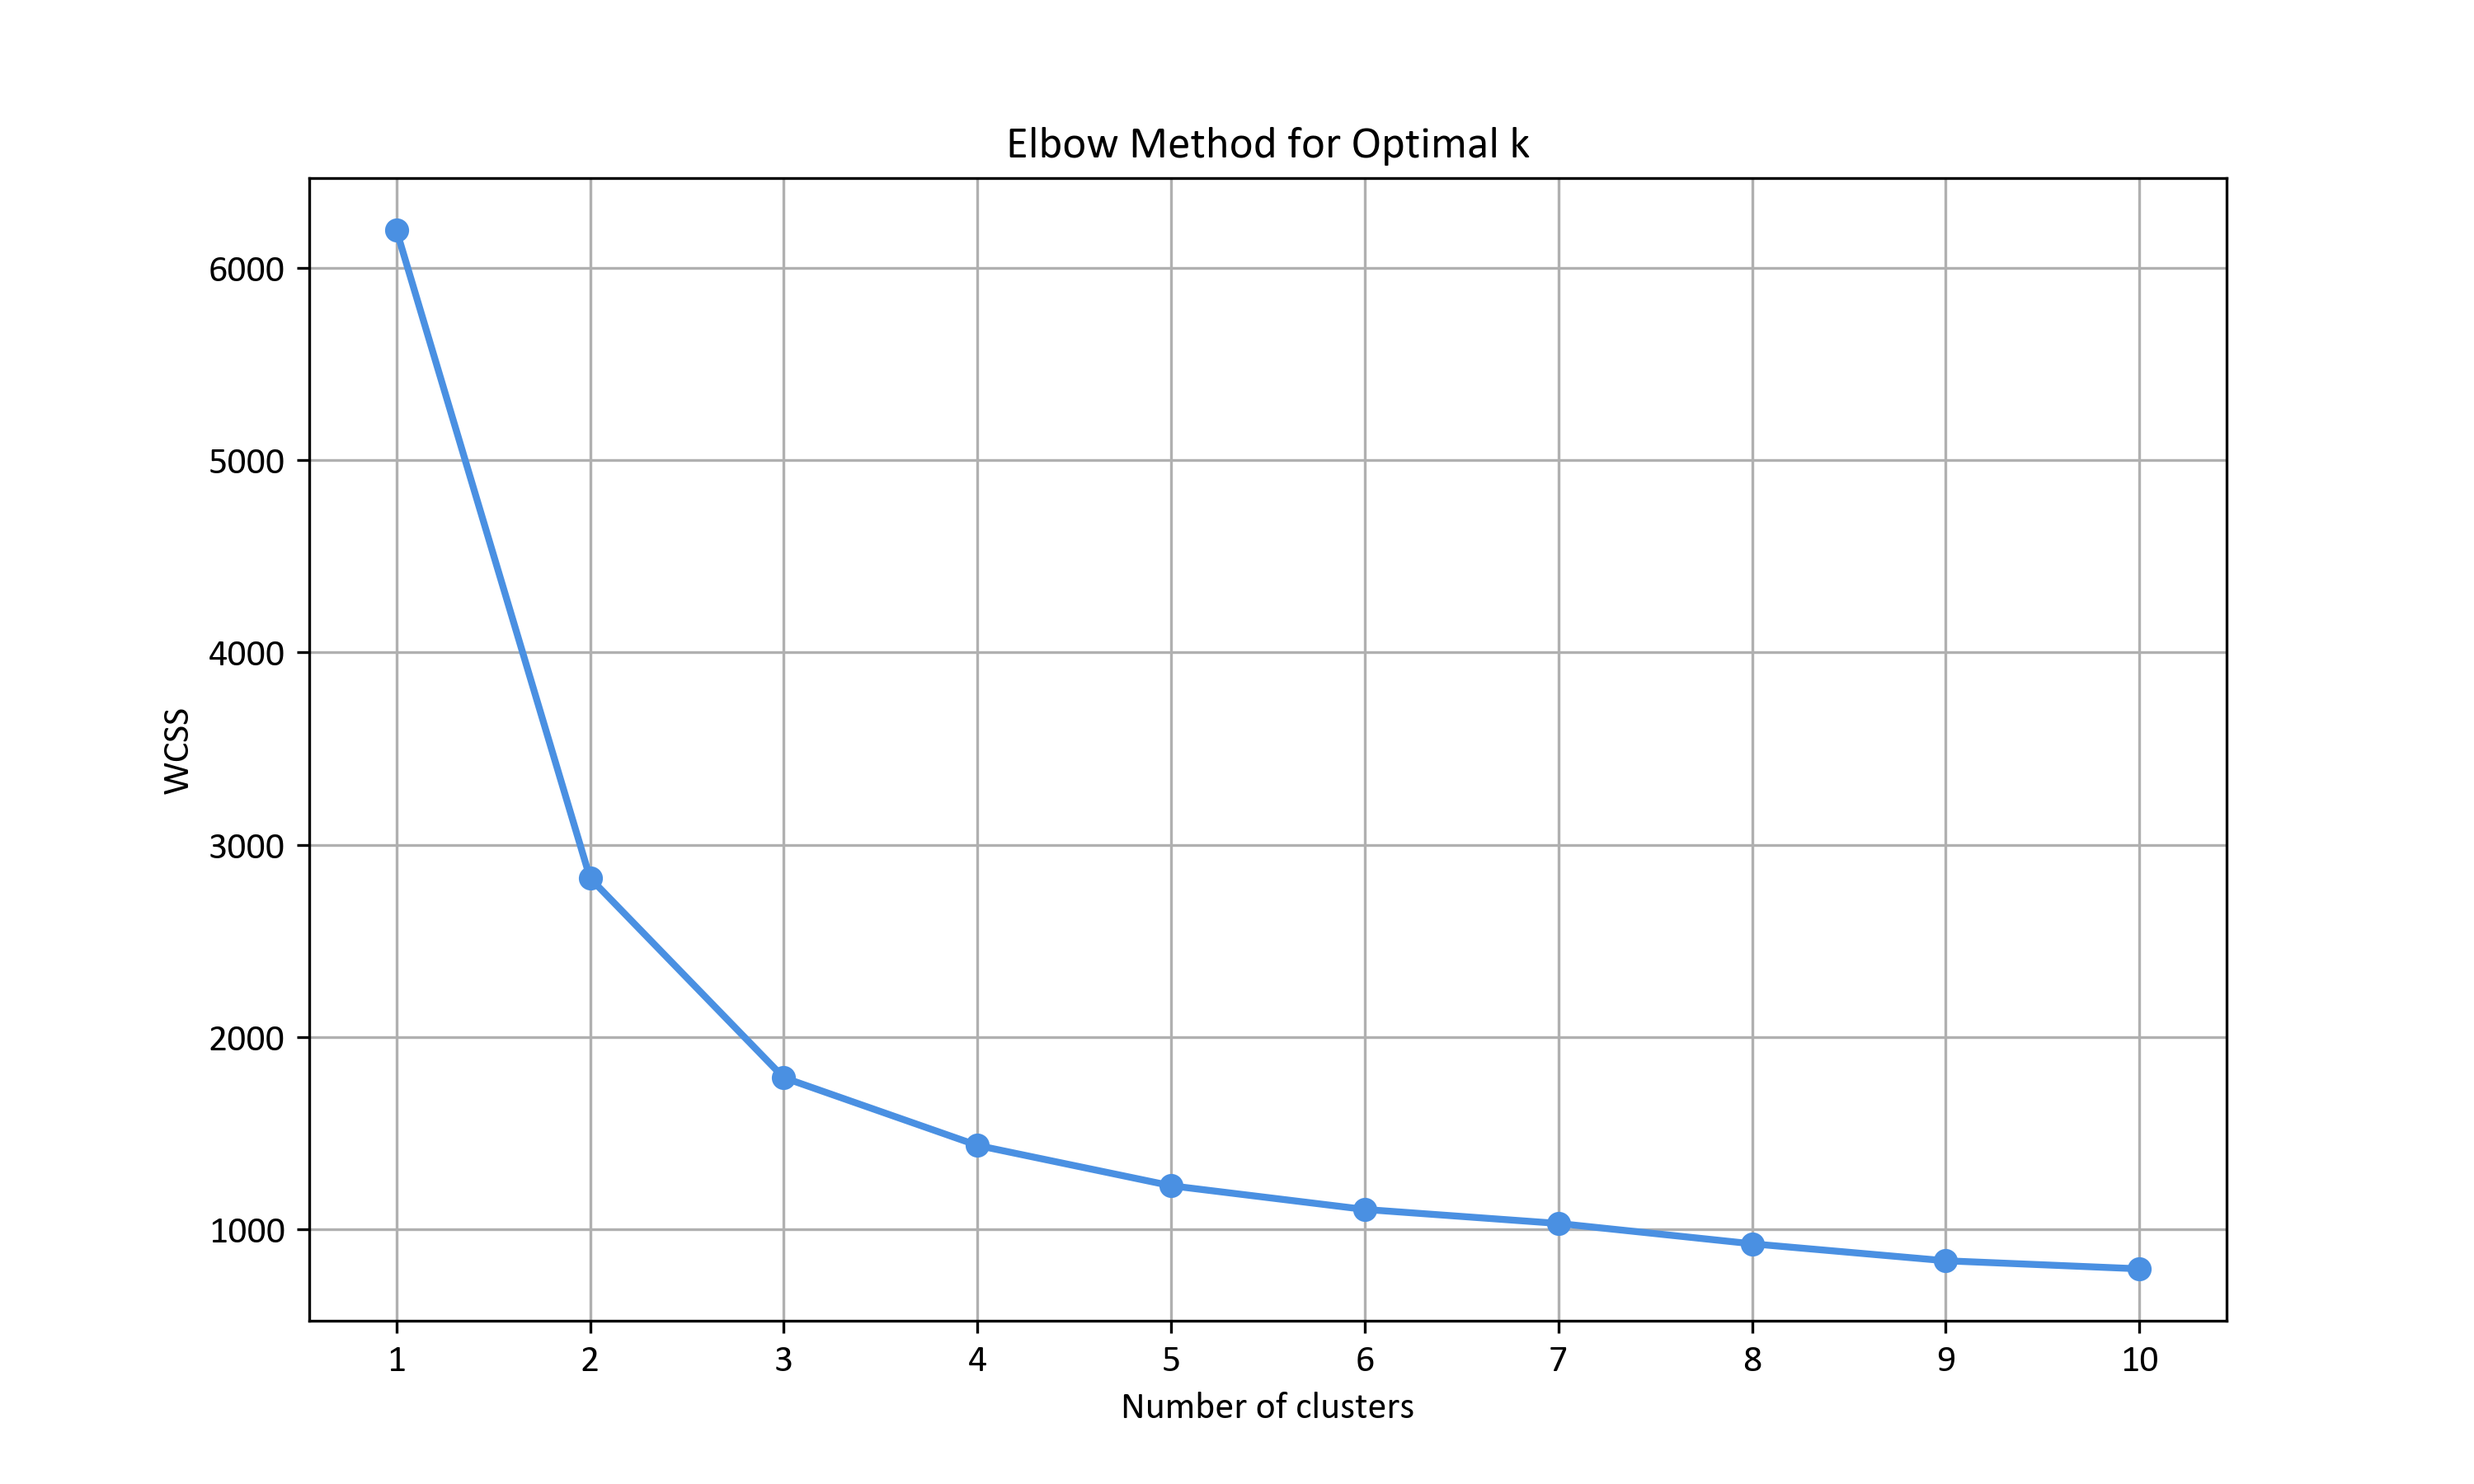
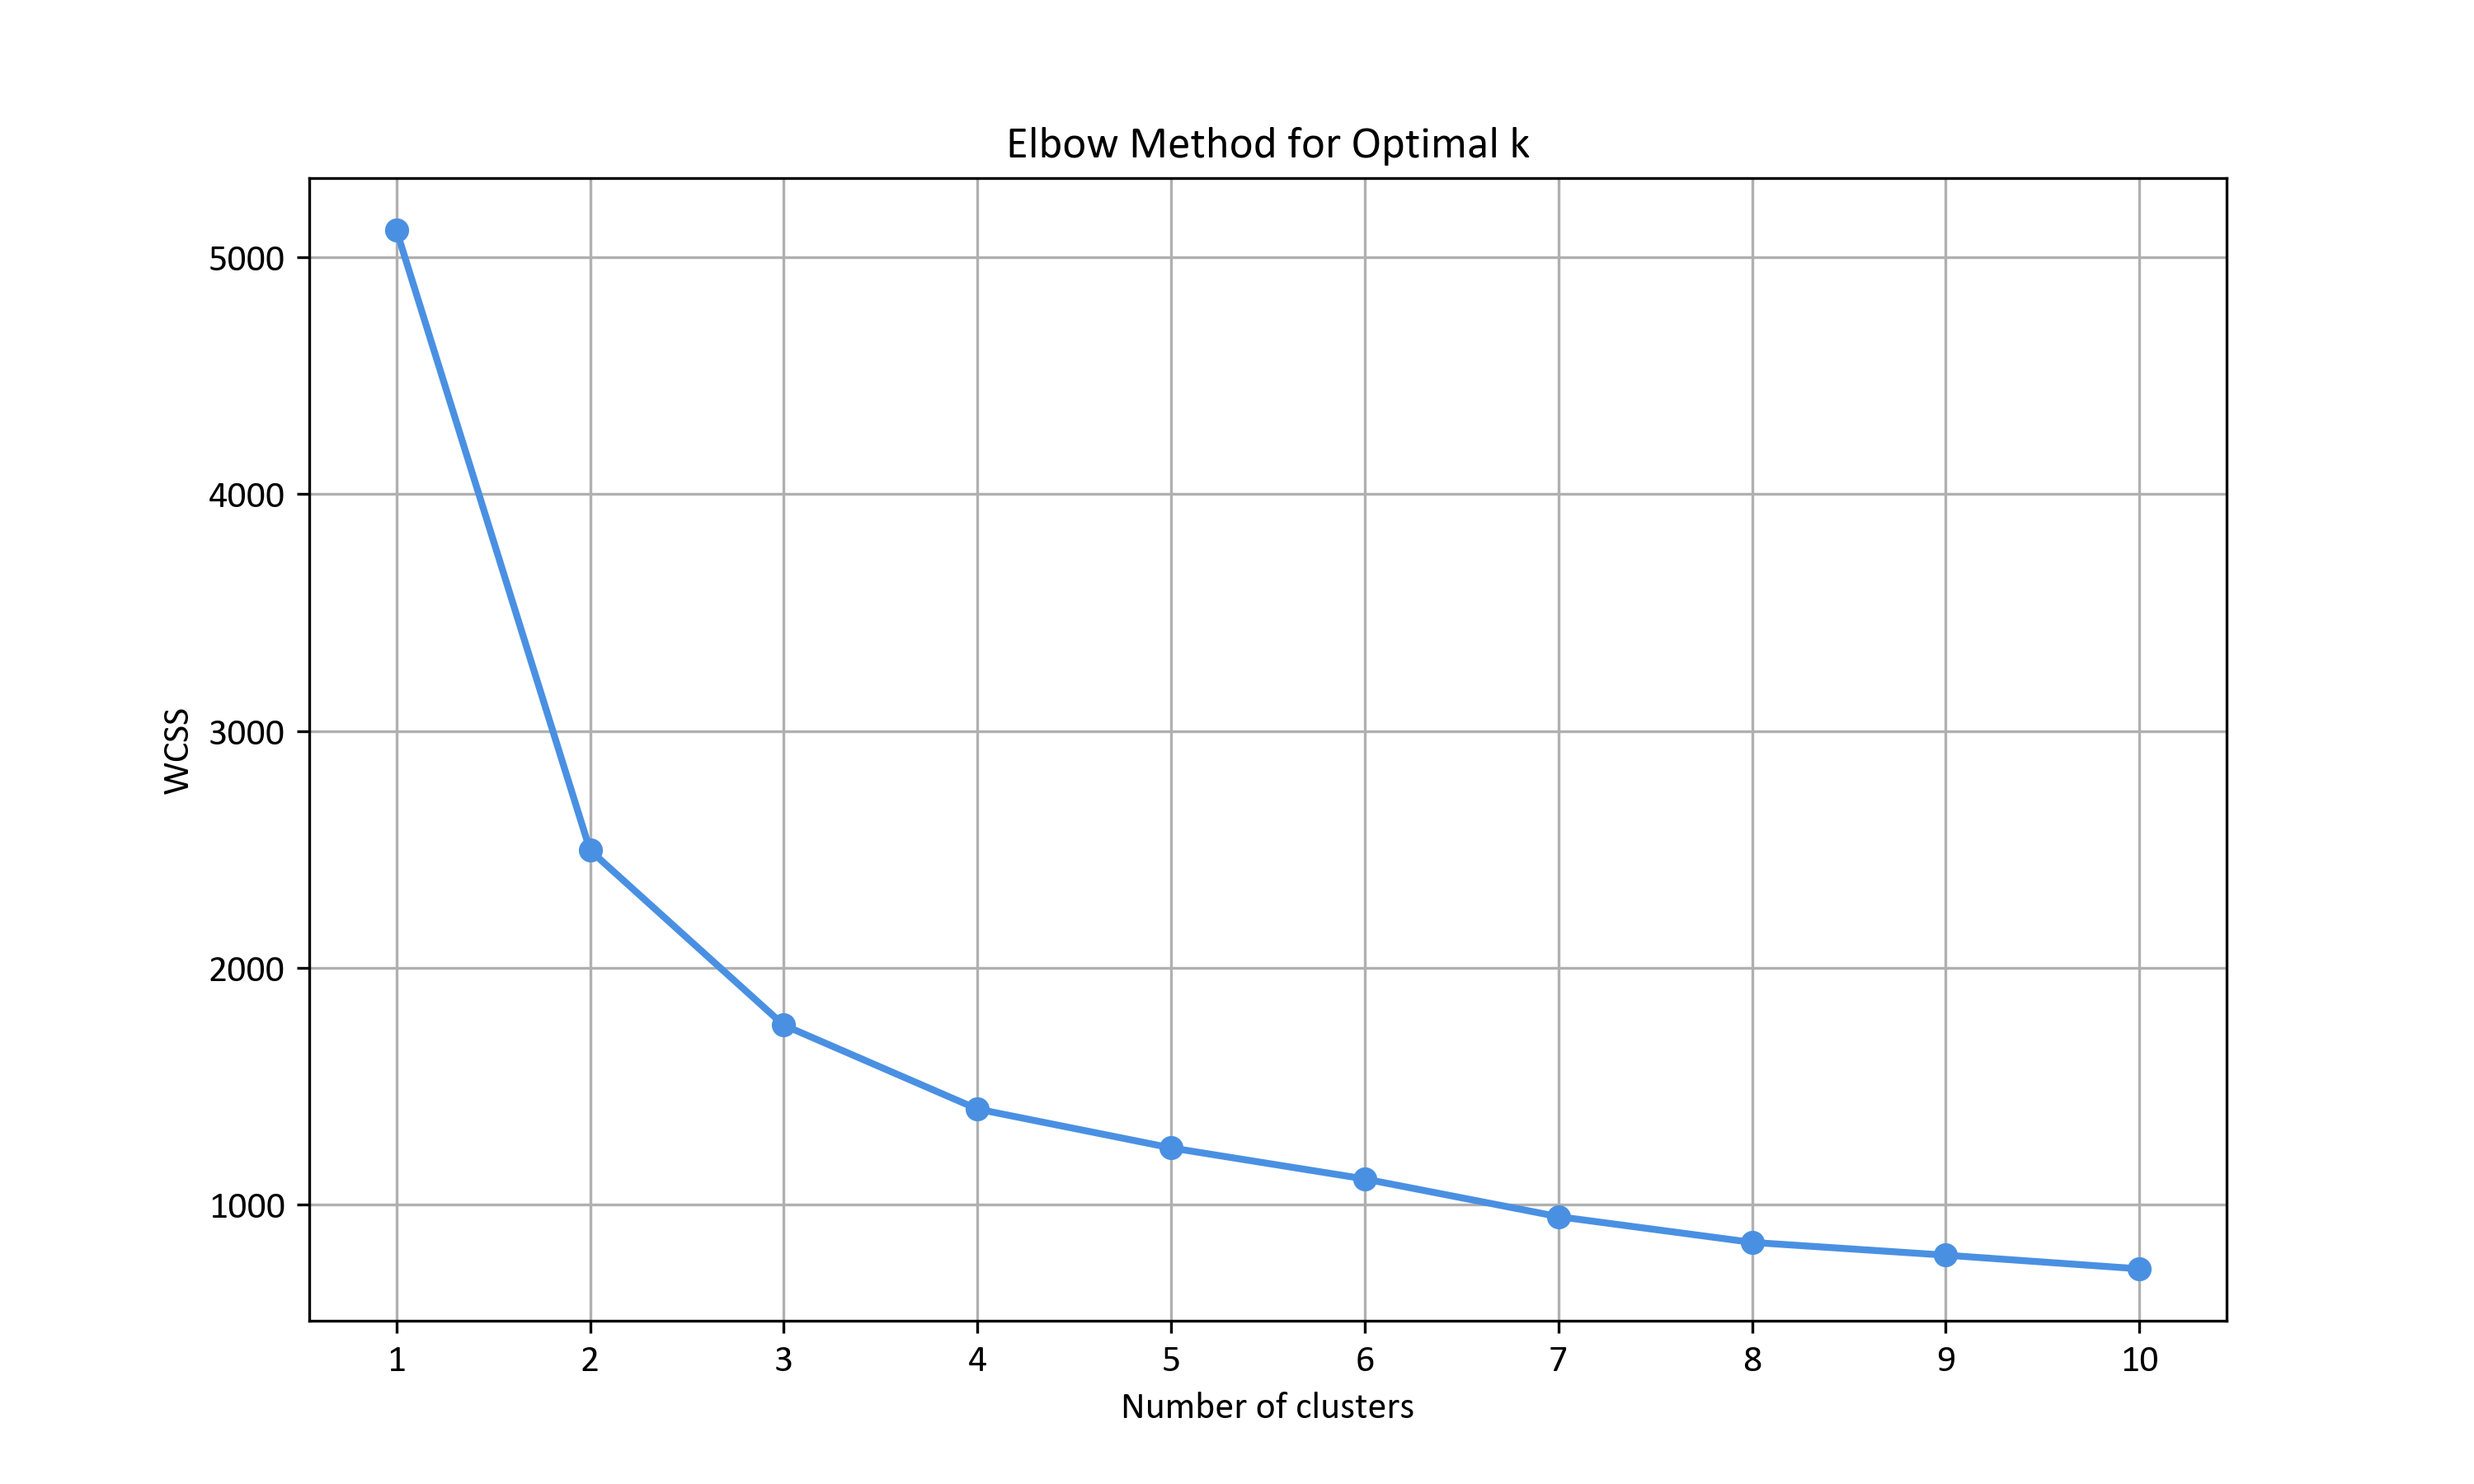
have to fix chnages of direction

diff --git a/Python.Analysis/src/cluster_analysis.py b/Python.Analysis/src/cluster_analysis.py
@@ -11,8 +11,8 @@ def perform_cluster_analysis(trials: List[Trial], n_clusters: int) -> None:
     trial_features = np.array([
         [
             trial.distance_between_last_touch_and_pass(),
-            trial.timing_between_last_touch_and_pass(),
-            trial.number_lateral_changes_of_direction()  # Keep only the relevant features
+            trial.time_between_last_change_of_direction_and_pass(),
+            trial.number_lateral_changes_of_direction()
         ]
         for trial in trials
     ])
@@ -46,18 +46,23 @@ def perform_cluster_analysis(trials: List[Trial], n_clusters: int) -> None:
             timings = np.array([trial.timing_between_last_touch_and_pass() for trial in condition_trials])
             average_timing = np.mean(timings) if len(timings) > 0 else 0
             
+            time_between_changes = np.array([trial.time_between_last_change_of_direction_and_pass() for trial in condition_trials])
+            average_time_between_changes = np.mean(time_between_changes) if len(time_between_changes) > 0 else 0
+            
             lateral_changes = np.array([trial.number_lateral_changes_of_direction() for trial in condition_trials])
             average_lateral_changes = np.mean(lateral_changes) if len(lateral_changes) > 0 else 0
             
             # Store averages in the dictionary
             averages[condition.value] = [
                 average_timing,
+                average_time_between_changes,
                 average_lateral_changes
             ]
 
     # Create a DataFrame to tabulate the averages with conditions as headers
     averages_df = pd.DataFrame(averages, index=[
         'Average Timing Between Last Touch and Pass',
+        'Average Time Between Last Change of Direction and Pass',
         'Average Number of Lateral Changes of Direction'
     ])
 
@@ -70,14 +75,30 @@ def perform_cluster_analysis(trials: List[Trial], n_clusters: int) -> None:
     for i, avg in enumerate(average_distribution):
         print(f'Cluster {i}: {avg:.2f}%')
 
+    # Calculate and print average feature values per cluster
+    print("\nAverage Feature Values per Cluster:")
+    cluster_averages = {i: [] for i in range(n_clusters)}
+    
+    for i in range(n_clusters):
+        cluster_trials = [trial_features[j] for j in range(len(trials)) if labels[j] == i]
+        if cluster_trials:
+            cluster_averages[i] = np.mean(cluster_trials, axis=0)
+        else:
+            cluster_averages[i] = [float('nan')] * trial_features.shape[1]  # Handle empty clusters
+
+    # Print the average feature values for each cluster
+    for i in range(n_clusters):
+        print(f"\nCluster {i}:")
+        print(f"  Average Timing Between Last Touch and Pass: {cluster_averages[i][0]:.2f}")
+        print(f"  Average Time Between Last Change of Direction and Pass: {cluster_averages[i][1]:.2f}")
+        print(f"  Average Number of Lateral Changes of Direction: {cluster_averages[i][2]:.2f}")
+
 def plot_elbow_method(trials: List[Trial], max_clusters: int, persistence: Persistence) -> None:
     wcss = []
     trial_features = np.array([
         [
             trial.distance_between_last_touch_and_pass(),
-            trial.timing_between_last_touch_and_pass(),
-            trial.average_interpersonal_distance(),
-            trial.interpersonal_distance_at_pass_time(),
+            trial.time_between_last_change_of_direction_and_pass(),
             trial.number_lateral_changes_of_direction()
         ]
         for trial in trials

diff --git a/Python.Analysis/src/domain.py b/Python.Analysis/src/domain.py
@@ -183,6 +183,18 @@ class Trial:
         derivative = np.diff(filtered_z)
         return np.sum(derivative[1:] * derivative[:-1] < 0)
 
+    def time_between_last_change_of_direction_and_pass(self) -> float:
+        last_change_index = None
+        for i in range(len(self.actions) - 1, -1, -1):
+            if isinstance(self.actions[i], Touch):  # Assuming Touch indicates a change of direction
+                last_change_index = i
+                break
+        
+        if last_change_index is not None and self.pass_event.time_index > last_change_index:
+            time_difference = self.timestamps[self.pass_event.time_index] - self.timestamps[last_change_index]
+            return time_difference
+        return float('nan')  # Return NaN if no valid change of direction is found
+
 
 @dataclass
 class TrialCollection:
